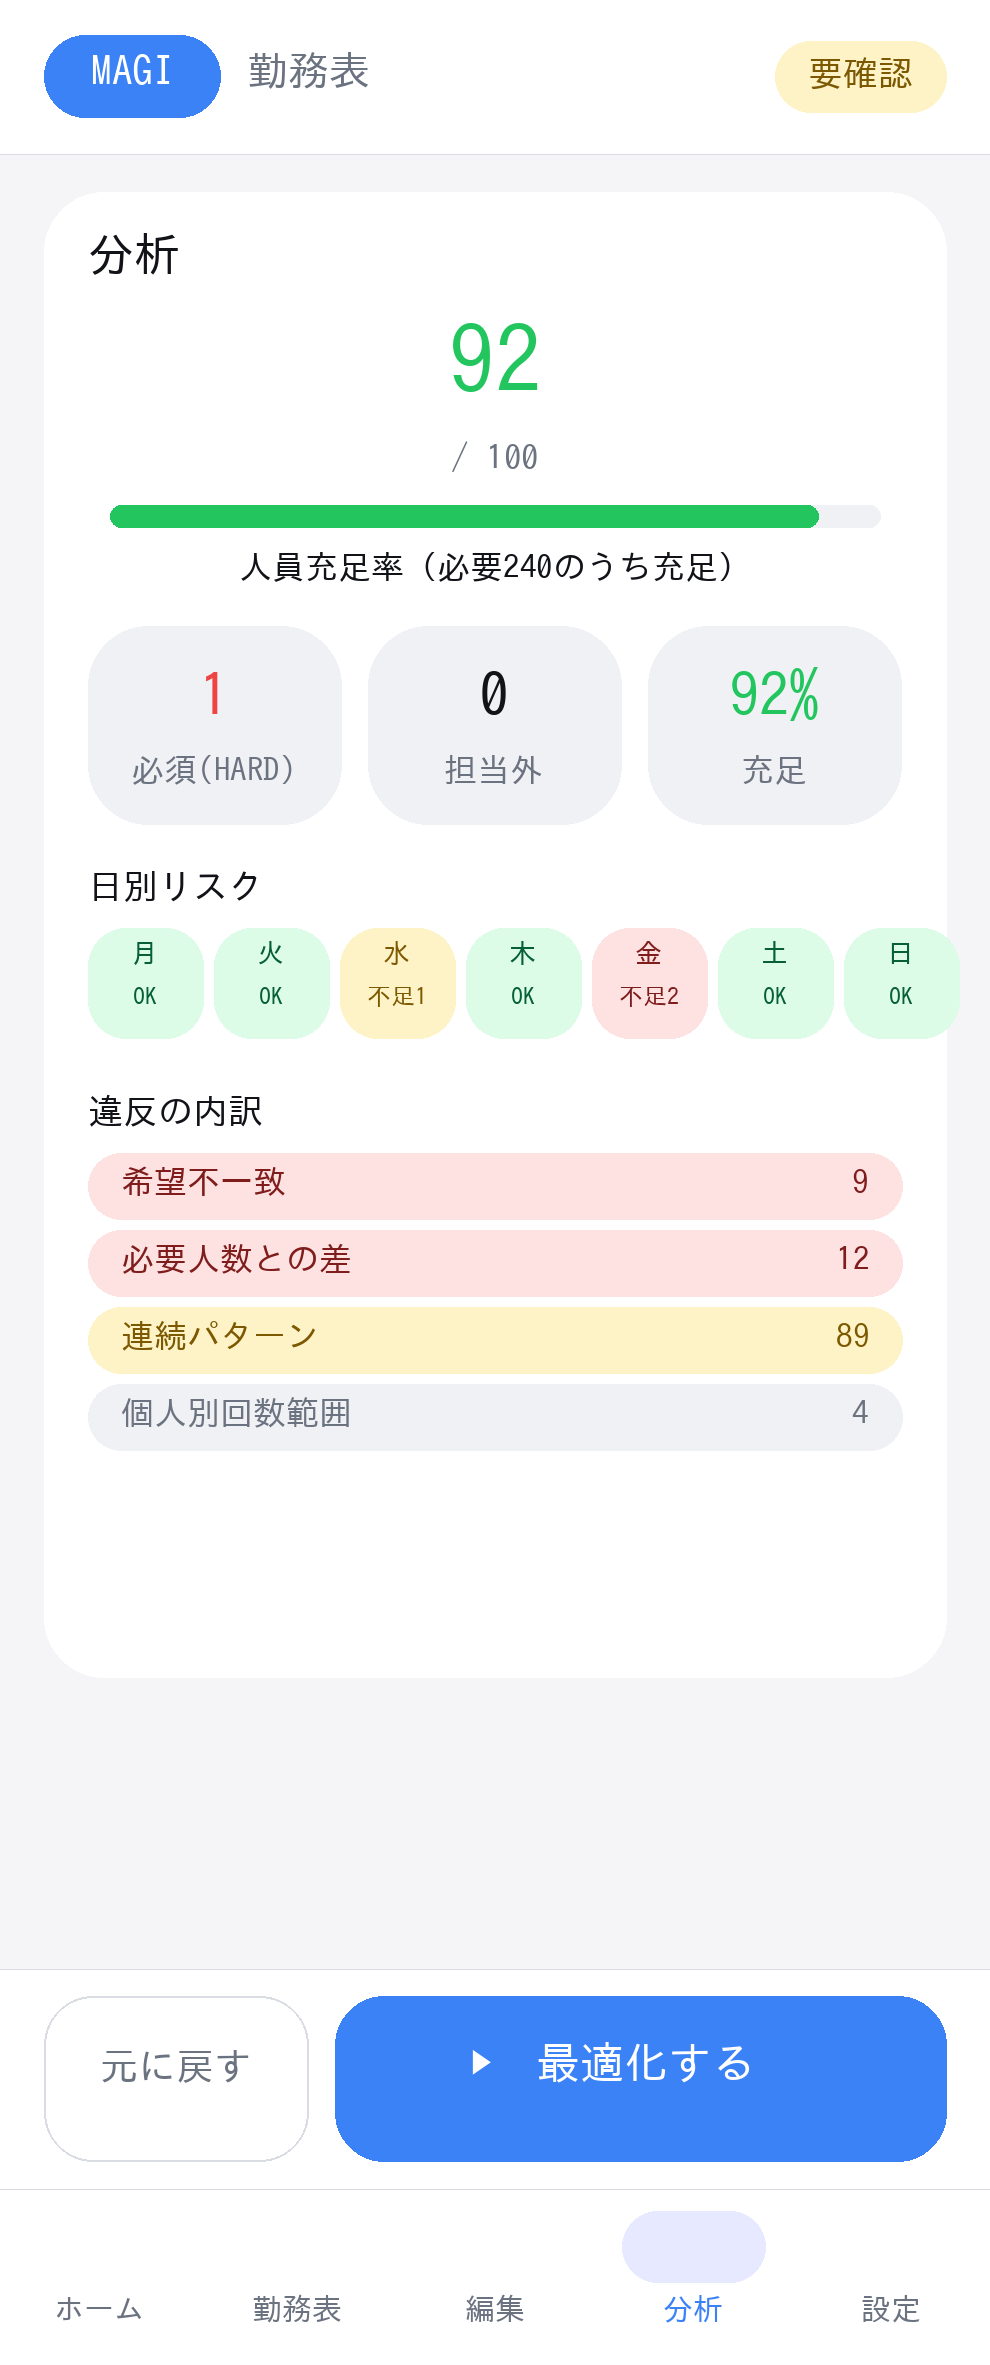
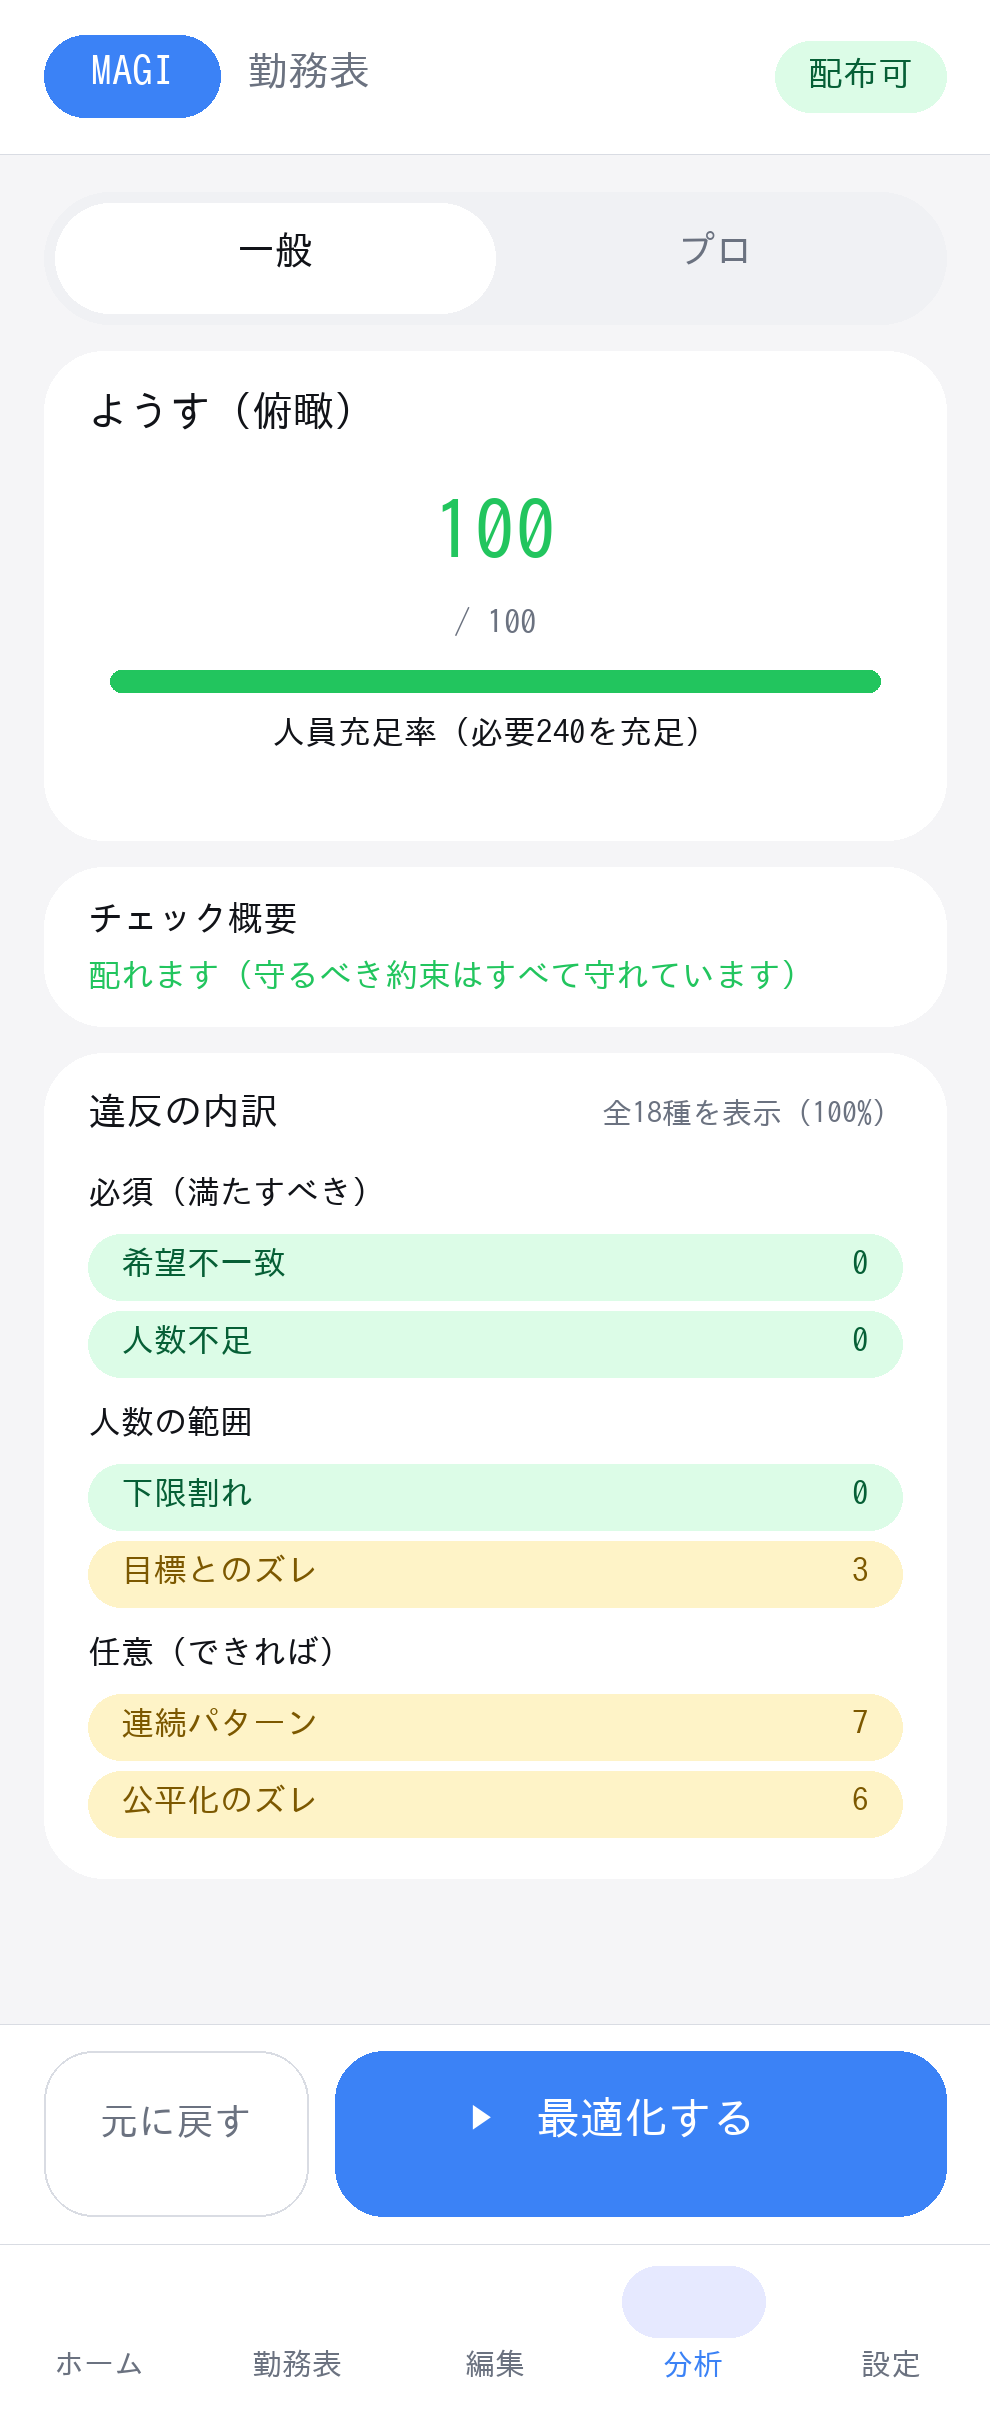
docs: 画面モックを現UIに再生成（編集タブ再設計・分析タブ・ピッカー✕）
mock_render_dogfood.py:
  - edit(): 旧『希望反映＋一覧』→ 3サブタブ[今月の調整/シフト希望/基本マスター]＋
    基本マスターの5節(折りたたみヘッダ:①シフト・グループ・スタッフ ②スキルグループ
    ③回数 ④人数と組み合わせ ⑤並び・くり返し)を描画。
  - analysis(): 旧『ゲージ＋4行内訳』→ 一般/プロ切替＋ようす(充足率)＋チェック概要
    『配れます』＋違反の内訳を必須/人数の範囲/任意の3群・全18種(公平化のズレ=fair含む)で描画。
  - picker(): シート見出しに閉じる✕(DialogHeader)を追加。
  - PDFラベル(07/08)を現行構成に更新。
再生成: docs/screens/09_edit.png・10_analysis.png・03_picker.png(05_dialogは確定=右で元から正・不変)。
screen_spec.md: §08見出しを現行(一般/プロ・ようす・チェック概要・違反内訳18/18)に。
ドキュメント/ツールのみ・アプリのコード変更なし。

diff --git a/tools/mock_render_dogfood.py b/tools/mock_render_dogfood.py
@@ -230,6 +230,9 @@ def picker():
     d.rounded_rectangle([0, sy, W, dp(760)+dp(28)], radius=dp(28), fill=C["surface"])
     rrect(d, W//2-dp(18), sy+dp(10), dp(36), dp(5), 3, C["outline"])
     text(d, dp(20), sy+dp(28), "佐藤 美和 ・ 12日 のシフト", 17, C["onSurface"], True)
+    _xx = W - dp(46); _xy = sy + dp(28)
+    d.line([_xx, _xy, _xx + dp(18), _xy + dp(18)], fill=C["onSurfaceVariant"], width=dp(2))
+    d.line([_xx + dp(18), _xy, _xx, _xy + dp(18)], fill=C["onSurfaceVariant"], width=dp(2))
     text(d, dp(20), sy+dp(56), "担当できるシフトから選んでください（指1本・親指届く下段）", 12, C["onSurfaceVariant"])
     tiles = [("日","#22C55E",True),("夜","#F59E0B",False),("明","#A855F7",False),
              ("休","#9CA3AF",False),("有","#3B82F6",False),("P","#EC4899",False)]
@@ -403,69 +406,64 @@ def month_matrix():
 
 # ===== 9. 編集（希望の反映 / 一覧） =========================================
 def edit():
-    H = dp(760); img, d = new_canvas(760)
+    H = dp(740); img, d = new_canvas(740)
     topbar(d, "要確認", C["amberBg"], C["amberFg"])
     x, y, w = dp(16), dp(70), W - dp(32)
-    ch = dp(160); card(d, x, y, w, ch)
-    text(d, x + dp(16), y + dp(14), "希望シフトの反映", 17, C["onSurface"], True)
-    text(d, x + dp(16), y + dp(44), "希望 93 件のうち担当可能な 84 件を勤務表へ反映します。", 12, C["onSurfaceVariant"], maxw=w - dp(32))
-    text(d, x + dp(16), y + dp(68), "担当外の希望 9 件は反映されません（要確認）。", 12, C["error"], maxw=w - dp(32))
-    rrect(d, x + dp(16), y + dp(100), w - dp(32), dp(48), 16, C["primary"])
-    center(d, x + w // 2, y + dp(114), "希望を反映する", 15, C["onPrimary"], True)
-    y += ch + dp(14)
-    lh = dp(346); card(d, x, y, w, lh)
-    text(d, x + dp(16), y + dp(14), "希望の一覧", 17, C["onSurface"], True)
-    ly = y + dp(44)
-    rows = [("#22C55E", "佐藤 美和", "12日 / 日勤を希望", "反映可", C["aGreen"]),
-            ("#F59E0B", "古泉 健一", "18日 / 夜勤を希望", "反映可", C["aGreen"]),
-            ("#EF4444", "山本 昌幸", "4日 / A1を希望", "担当外", C["aRed"]),
-            ("#3B82F6", "鈴木 隆", "22日 / 有給を希望", "反映可", C["aGreen"]),
-            ("#EF4444", "中村 茜", "31日 / A4を希望", "担当外", C["aRed"])]
-    for ic, nm, sub, tag, tc in rows:
-        ly += listrow(d, x + dp(16), ly, w - dp(32), ic, nm, sub, tag, tc)
-    bottom_bars(d, H, 2, "▶  最適化する")
+    y += segmented(d, x, y, w, ["今月の調整", "シフト希望", "基本マスター"], 2) + dp(10)
+    rrect(d, x, y, w, dp(42), 14, C["amberBg"])
+    text(d, x + dp(14), y + dp(12), "制度・人員が変わったときだけ編集します。", 12, C["amberFg"], maxw=w - dp(28))
+    y += dp(42) + dp(10)
+    secs = [("\u25bc  \u2460 \u30b7\u30d5\u30c8\u30fb\u30b0\u30eb\u30fc\u30d7\u30fb\u30b9\u30bf\u30c3\u30d5", "勤務の種類・グループ・職員を追加/編集"),
+            ("\u25b6  \u2461 \u30b9\u30ad\u30eb\u30b0\u30eb\u30fc\u30d7", "似た技能をまとめる"),
+            ("\u25b6  \u2462 回数（1人あたり）", "目標・個人の下限上限・グループ一括"),
+            ("\u25b6  \u2463 人数と組み合わせ", "1日の必要数・禁止ペア（C41 / C42）"),
+            ("\u25b6  \u2464 並び・くり返し", "連続や間隔のルール（並び希望 / 並び回避 ほか）")]
+    for title, note in secs:
+        rh = dp(62); card(d, x, y, w, rh)
+        text(d, x + dp(16), y + dp(13), title, 14, C["onSurface"], True)
+        text(d, x + dp(16), y + dp(38), note, 11, C["onSurfaceVariant"], maxw=w - dp(32))
+        y += rh + dp(8)
+    bottom_bars(d, H, 2, "\u25b6  最適化する")
     return img
 
 # ===== 10. 分析（ゲージ＋統計＋リスク＋内訳） ================================
 def analysis():
-    H = dp(860); img, d = new_canvas(860)
-    topbar(d, "要確認", C["amberBg"], C["amberFg"])
+    H = dp(880); img, d = new_canvas(880)
+    topbar(d, "配布可", C["tertiaryContainer"], C["onTertiaryContainer"])
     x, y, w = dp(16), dp(70), W - dp(32)
-    ch = dp(540); card(d, x, y, w, ch)
-    text(d, x + dp(16), y + dp(14), "分析", 17, C["onSurface"], True)
-    center(d, x + w // 2, y + dp(44), "92", 34, C["tertiary"], True)
-    center(d, x + w // 2, y + dp(90), "/ 100", 13, C["onSurfaceVariant"])
-    rrect(d, x + dp(24), y + dp(114), w - dp(48), dp(8), 4, C["surfaceVariant"])
-    rrect(d, x + dp(24), y + dp(114), int((w - dp(48)) * 0.92), dp(8), 4, C["tertiary"])
-    center(d, x + w // 2, y + dp(130), "人員充足率（必要240のうち充足）", 12, C["onSurface"])
-    sw = (w - dp(32) - dp(20)) // 3; sy = y + dp(158)
-    bigstat(d, x + dp(16), sy, sw, "1", "必須(HARD)", C["error"])
-    bigstat(d, x + dp(16) + sw + dp(10), sy, sw, "0", "担当外", C["onSurface"])
-    bigstat(d, x + dp(16) + 2 * (sw + dp(10)), sy, sw, "92%", "充足", C["tertiary"])
-    ry = sy + dp(88)
-    text(d, x + dp(16), ry, "日別リスク", 13, C["onSurface"], True)
-    risks = [("月", 0), ("火", 0), ("水", 1), ("木", 0), ("金", 2), ("土", 0), ("日", 0)]
-    cxp = x + dp(16); ry2 = ry + dp(22)
-    for lab, sh in risks:
-        if sh <= 0: bg, fg = C["tertiaryContainer"], C["onTertiaryContainer"]
-        elif sh == 1: bg, fg = C["amberBg"], C["amberFg"]
-        else: bg, fg = C["errorContainer"], C["onErrorContainer"]
-        cww = dp(42); rrect(d, cxp, ry2, cww, dp(40), 14, bg)
-        center(d, cxp + cww // 2, ry2 + dp(4), lab, 10, fg)
-        center(d, cxp + cww // 2, ry2 + dp(20), ("不足%d" % sh) if sh > 0 else "OK", 9, fg, True)
-        cxp += cww + dp(4)
-    by = ry2 + dp(60); text(d, x + dp(16), by, "違反の内訳", 13, C["onSurface"], True)
-    brows = [("希望不一致", 9, C["errorContainer"], C["onErrorContainer"]),
-             ("必要人数との差", 12, C["errorContainer"], C["onErrorContainer"]),
-             ("連続パターン", 89, C["amberBg"], C["amberFg"]),
-             ("個人別回数範囲", 4, C["surfaceVariant"], C["onSurfaceVariant"])]
-    byy = by + dp(22)
-    for lab, val, bg, fg in brows:
-        rrect(d, x + dp(16), byy, w - dp(32), dp(24), 12, bg)
-        text(d, x + dp(28), byy + dp(4), lab, 12, fg)
-        text(d, x + w - dp(28), byy + dp(4), str(val), 12, fg, True, anchor="ra")
-        byy += dp(28)
-    bottom_bars(d, H, 3, "▶  最適化する")
+    y += segmented(d, x, y, w, ["一般", "プロ"], 0) + dp(10)
+    # ようす（gauge）
+    ch = dp(178); card(d, x, y, w, ch)
+    text(d, x + dp(16), y + dp(14), "ようす（俯瞰）", 15, C["onSurface"], True)
+    center(d, x + w // 2, y + dp(50), "100", 30, C["tertiary"], True)
+    center(d, x + w // 2, y + dp(92), "/ 100", 12, C["onSurfaceVariant"])
+    rrect(d, x + dp(24), y + dp(116), w - dp(48), dp(8), 4, C["surfaceVariant"])
+    rrect(d, x + dp(24), y + dp(116), (w - dp(48)), dp(8), 4, C["tertiary"])
+    center(d, x + w // 2, y + dp(132), "人員充足率（必要240を充足）", 12, C["onSurface"])
+    y += ch + dp(10)
+    # チェック概要
+    ch2 = dp(58); card(d, x, y, w, ch2)
+    text(d, x + dp(16), y + dp(12), "チェック概要", 13, C["onSurface"], True)
+    text(d, x + dp(16), y + dp(33), "配れます（守るべき約束はすべて守れています）", 12, C["tertiary"], True)
+    y += ch2 + dp(10)
+    # 違反の内訳（3群・全18種=100%）
+    bh = dp(300); card(d, x, y, w, bh)
+    text(d, x + dp(16), y + dp(14), "違反の内訳", 14, C["onSurface"], True)
+    text(d, x + w - dp(16), y + dp(16), "全18種を表示（100%）", 11, C["onSurfaceVariant"], anchor="ra")
+    gy = y + dp(44)
+    groups = [("必須（満たすべき）", [("希望不一致", 0, True), ("人数不足", 0, True)]),
+              ("人数の範囲", [("下限割れ", 0, True), ("目標とのズレ", 3, False)]),
+              ("任意（できれば）", [("連続パターン", 7, False), ("公平化のズレ", 6, False)])]
+    for gname, items in groups:
+        text(d, x + dp(16), gy, gname, 12, C["onSurface"], True); gy += dp(22)
+        for lab, val, okv in items:
+            bg, fg = (C["tertiaryContainer"], C["onTertiaryContainer"]) if okv else (C["amberBg"], C["amberFg"])
+            rrect(d, x + dp(16), gy, w - dp(32), dp(24), 12, bg)
+            text(d, x + dp(28), gy + dp(4), lab, 12, fg)
+            text(d, x + w - dp(28), gy + dp(4), str(val), 12, fg, True, anchor="ra")
+            gy += dp(28)
+        gy += dp(6)
+    bottom_bars(d, H, 3, "\u25b6  最適化する")
     return img
 
 # ===== 11. 設定（スライダー/スイッチ/外観/データ） ==========================
@@ -546,8 +544,8 @@ labels = ["00 未読込（EmptyState）",
           "04 シフト選択シート（手動修正・親指ゾーン）",
           "05 カレンダー月表示（問題日・シフト色ピル）",
           "06 勤務表 1ヶ月 色マトリクス",
-          "07 編集（希望の反映・一覧）",
-          "08 分析（充足率ゲージ・統計・リスク・内訳）",
+          "07 編集（今月の調整/シフト希望/基本マスター5節）",
+          "08 分析（一般/プロ・ようす・チェック概要・違反内訳18/18）",
           "09 設定（時間/並列・通知/片手・外観・データ）",
           "10 希望反映の確認ダイアログ（メッセージ）",
           "11 中断復帰バナー（プロセスkill耐性）"]

diff --git a/docs/screen_spec.md b/docs/screen_spec.md
@@ -178,7 +178,7 @@
 - **Web対応**: Web は ws3（希望グリッド）入力＋「そのまま反映」。Native は担当外を**確認ダイアログ＋Undo＋操作ログ**で安全化。基本マスター(ws4 制約／ws5 個人回数)は編集タブ「基本マスター」に**専用エディタとして実装済み**（`ConstraintEditor`/`StaffRangeEditor` ほか。07b 参照）。
 - **実装**: `WishApplyCard`／`SetupGuideCard`（一覧の `MagiListRow` 化は段階移行）。
 
-## 08. 分析（充足率ゲージ・統計・リスク・内訳）
+## 08. 分析（一般/プロ切替・ようす・チェック概要・違反の内訳18/18）
 ![分析](screens/10_analysis.png)
 
 - **目的**: 配布可否の根拠を数値で示す。